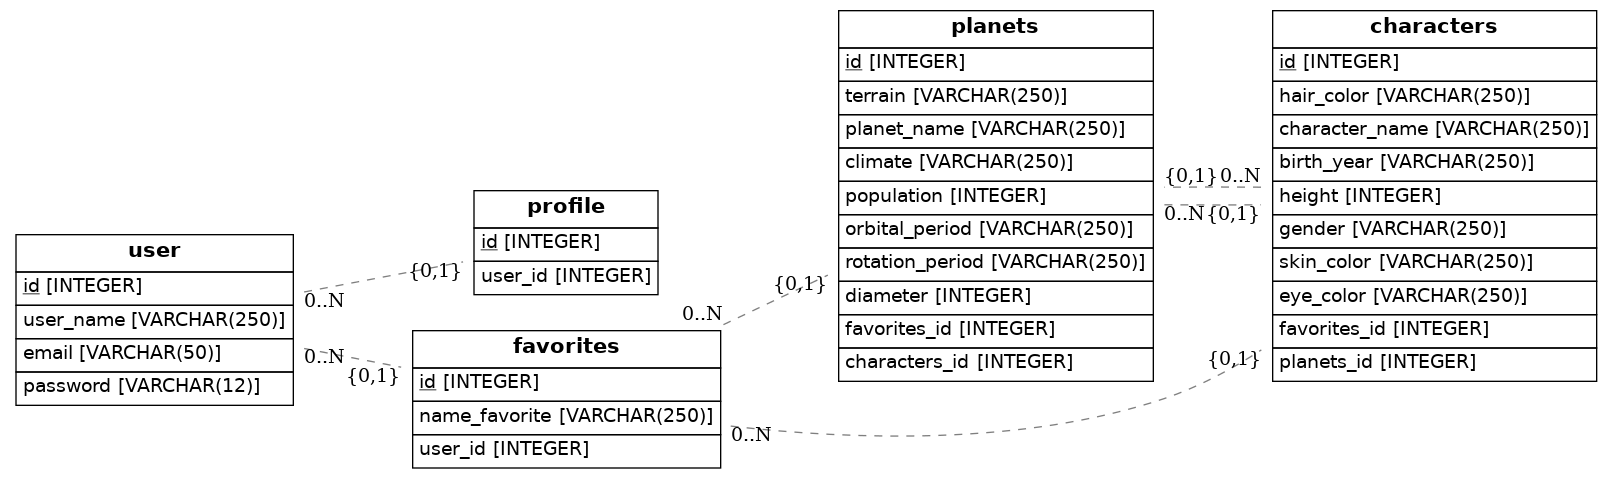
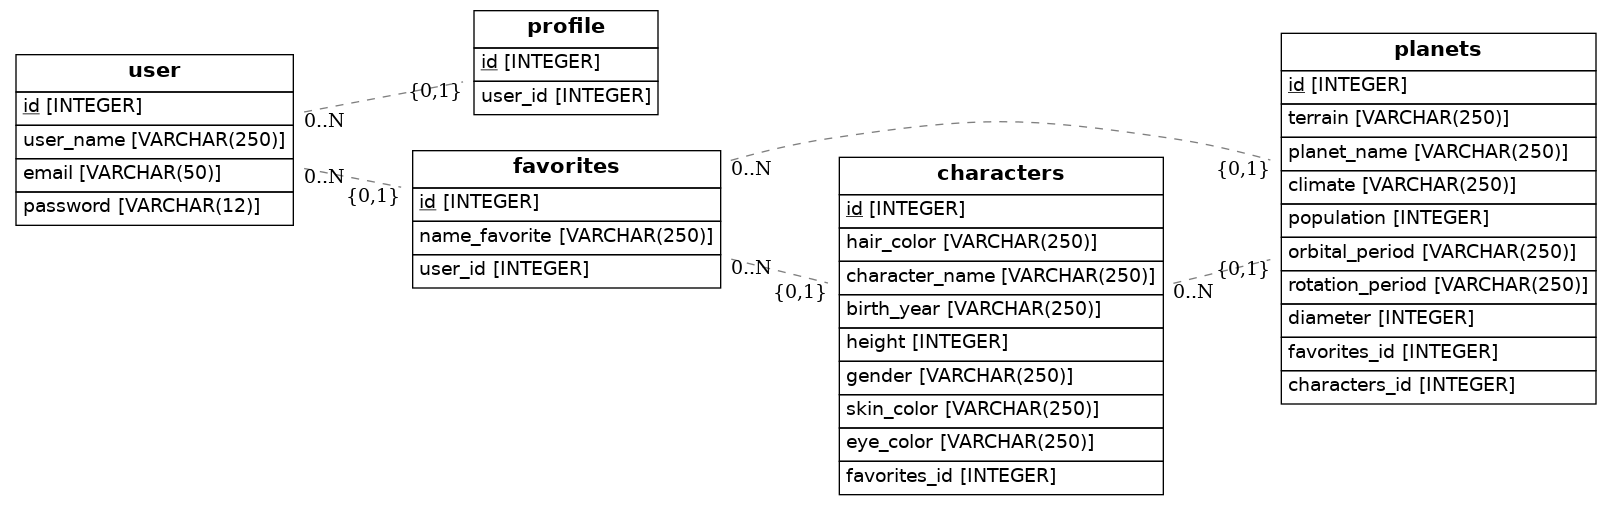
changed relationship between characters and planets

diff --git a/src/models.py b/src/models.py
@@ -59,7 +59,7 @@ class Characters(Base):
     eye_color = Column(String(250))
 
     favorites_id= Column(Integer, ForeignKey("favorites.id"))
-    planets_id= Column(Integer, ForeignKey("planets.id"))
+    # planets_id= Column(Integer, ForeignKey("planets.id"))
 
     def to_dict(self):
         return {}
